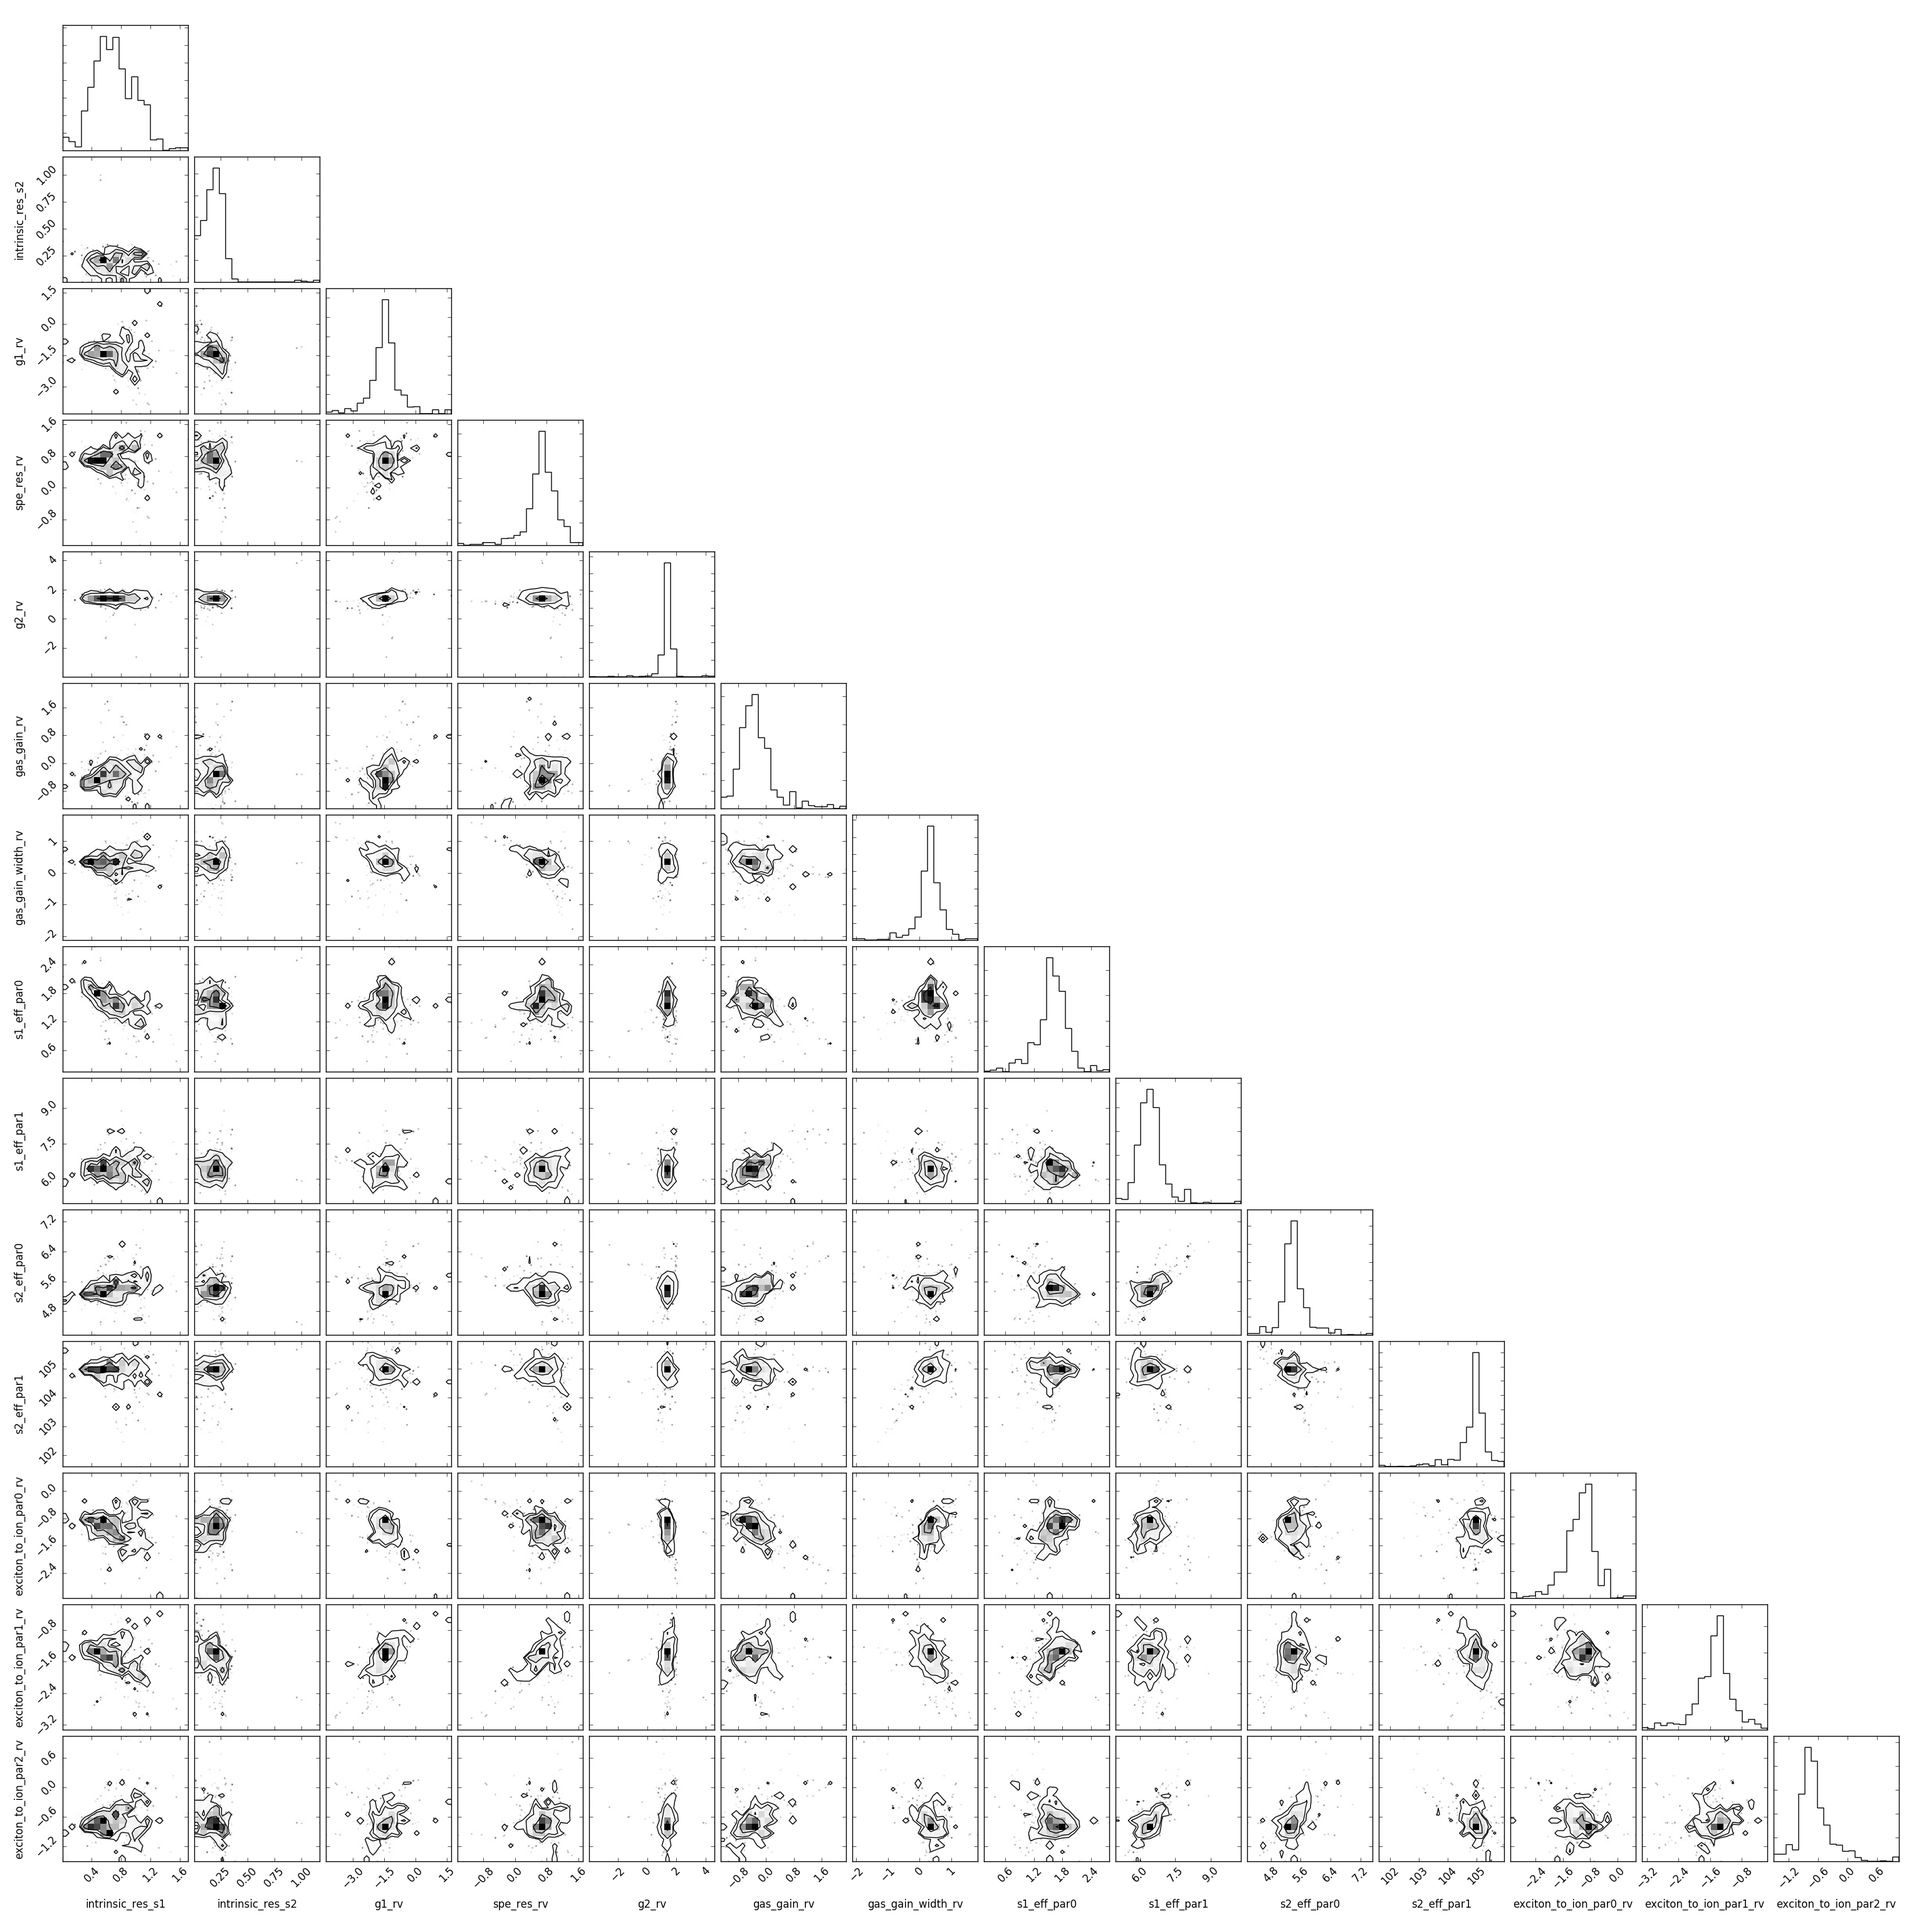
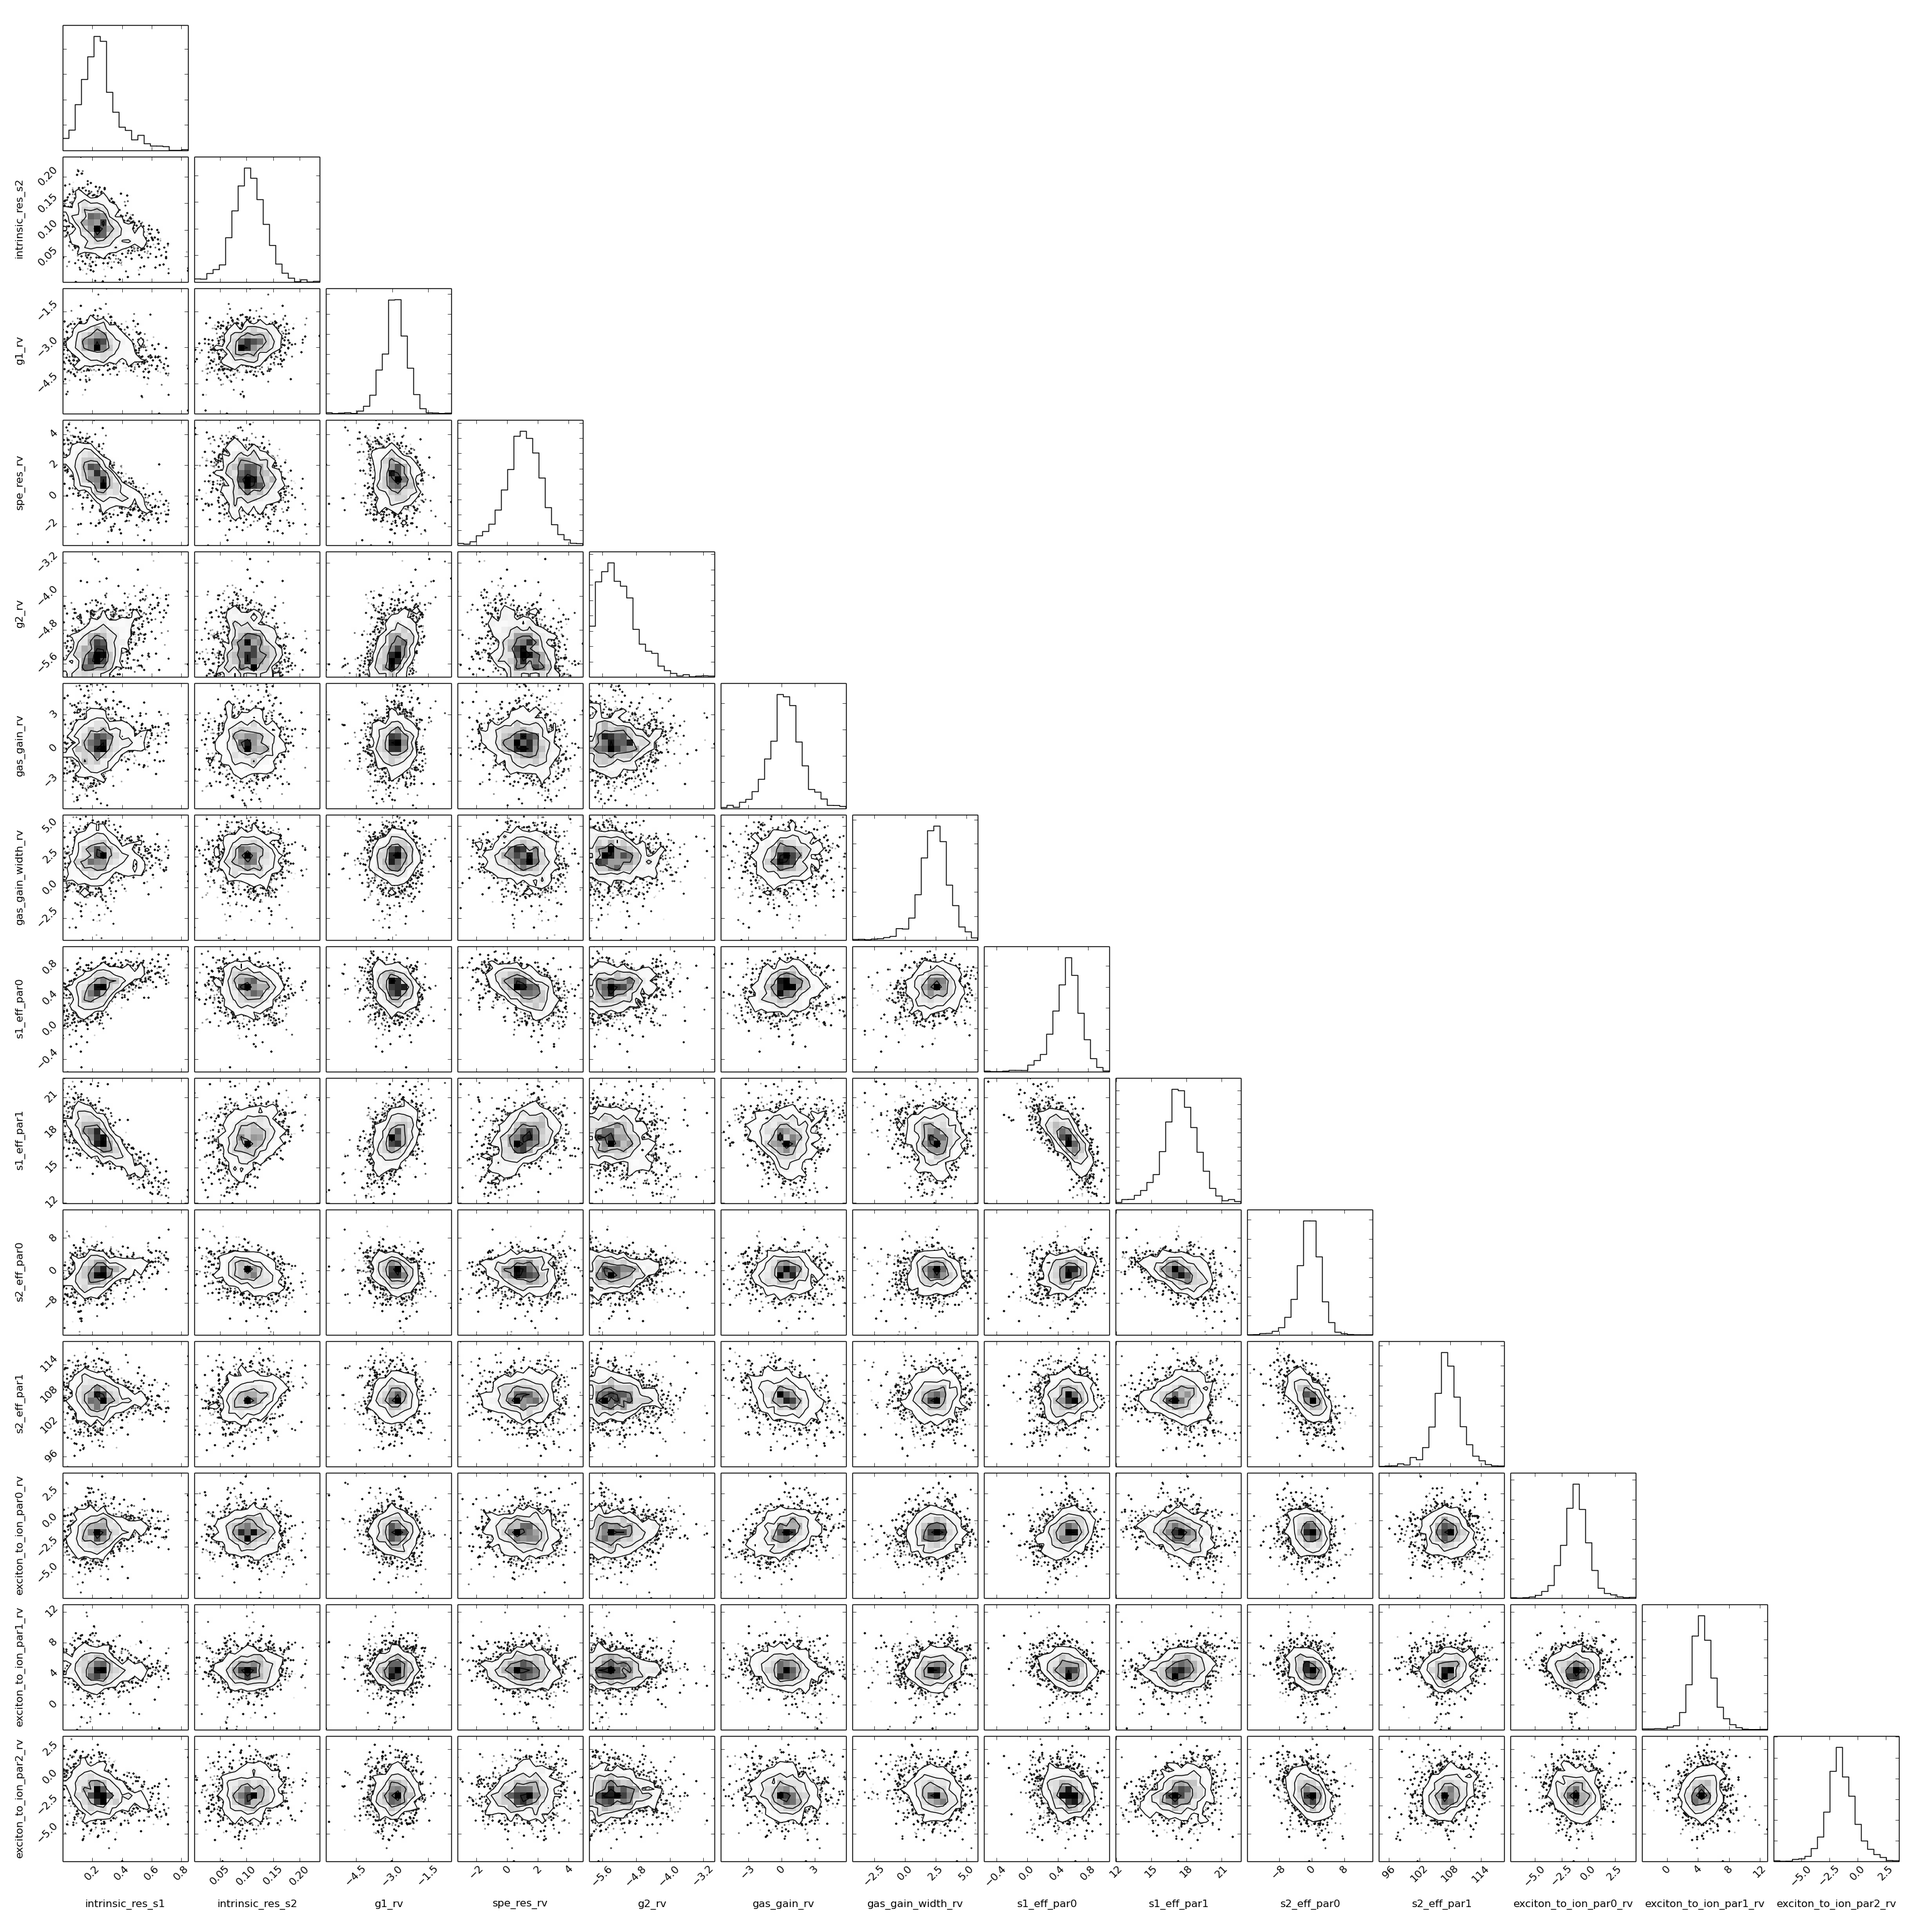
changed initial guesses and random draws

diff --git a/nr/nr_band_matching/fit_nr_band.py b/nr/nr_band_matching/fit_nr_band.py
@@ -752,7 +752,7 @@ class nr_band_fitter(object):
 		num_dim = 14
 	
 		# don't give zeros as starting values otherwise will be stuck
-		starting_values = [0.3, 0.1, np.random.randn(), np.random.randn(), np.random.randn(), np.random.randn(), np.random.randn(), 2, 6, 5, 100, np.random.randn(), np.random.randn(), np.random.randn()]
+		starting_values = [0.1, 0.18, (np.random.rand() - 0.5)/2., (np.random.rand() - 0.5)/2., (np.random.rand() - 0.5)/2., (np.random.rand() - 0.5)/2., (np.random.rand() - 0.5)/2., 1.1, 3.2, 0, 75, (np.random.rand() - 0.5)/2., (np.random.rand() - 0.5)/2., (np.random.rand() - 0.5)/2.]
 	
 		# before emcee, setup save locations
 		dir_specifier_name = '%.3fkV_%.1fkV' % (self.cathode_setting, self.anode_setting)
@@ -858,6 +858,7 @@ class nr_band_fitter(object):
 
 if __name__ == '__main__':
 	test = nr_band_fitter('nerix_160419_1331', 4.5, 0.345)
-	test.likelihood_nr_band_nest(intrinsic_res_s1=0.1, intrinsic_res_s2=0.18, g1_rv=0, spe_res_rv=0, g2_rv=0, gas_gain_rv=0, gas_gain_width_rv=0, s1_eff_par0=1.1, s1_eff_par1=3.2, s2_eff_par0=0, s2_eff_par1=75, exciton_to_ion_par0_rv=0, exciton_to_ion_par1_rv=0, exciton_to_ion_par2_rv=0, draw_fit=True)
+	#test.likelihood_nr_band_nest(intrinsic_res_s1=0.1, intrinsic_res_s2=0.18, g1_rv=0, spe_res_rv=0, g2_rv=0, gas_gain_rv=0, gas_gain_width_rv=0, s1_eff_par0=1.1, s1_eff_par1=3.2, s2_eff_par0=0, s2_eff_par1=75, exciton_to_ion_par0_rv=0, exciton_to_ion_par1_rv=0, exciton_to_ion_par2_rv=0, draw_fit=True)
+	#test.likelihood_nr_band_nest(intrinsic_res_s1=0.22, intrinsic_res_s2=0.10, g1_rv=-3, spe_res_rv=1.5, g2_rv=-5, gas_gain_rv=1, gas_gain_width_rv=2.5, s1_eff_par0=0.5, s1_eff_par1=16., s2_eff_par0=1.5, s2_eff_par1=108., exciton_to_ion_par0_rv=-1.2, exciton_to_ion_par1_rv=4.5, exciton_to_ion_par2_rv=-2.2, draw_fit=True)
 	#test.fit_nr_band_nest(num_steps=20, num_walkers=100, num_threads=6)
 

diff --git a/nr/nr_band_matching/create_corner_plot.py b/nr/nr_band_matching/create_corner_plot.py
@@ -44,7 +44,7 @@ numDim = 14
 
 lLabelsForCorner = ('intrinsic_res_s1', 'intrinsic_res_s2', 'g1_rv', 'spe_res_rv', 'g2_rv', 'gas_gain_rv', 'gas_gain_width_rv', 's1_eff_par0', 's1_eff_par1', 's2_eff_par0', 's2_eff_par1', 'exciton_to_ion_par0_rv', 'exciton_to_ion_par1_rv', 'exciton_to_ion_par2_rv')
 
-samples = aSampler[:, -10:, :].reshape((-1, numDim))
+samples = aSampler[:, -50:, :].reshape((-1, numDim))
 fig = corner.corner(samples, labels=lLabelsForCorner)
 
 
